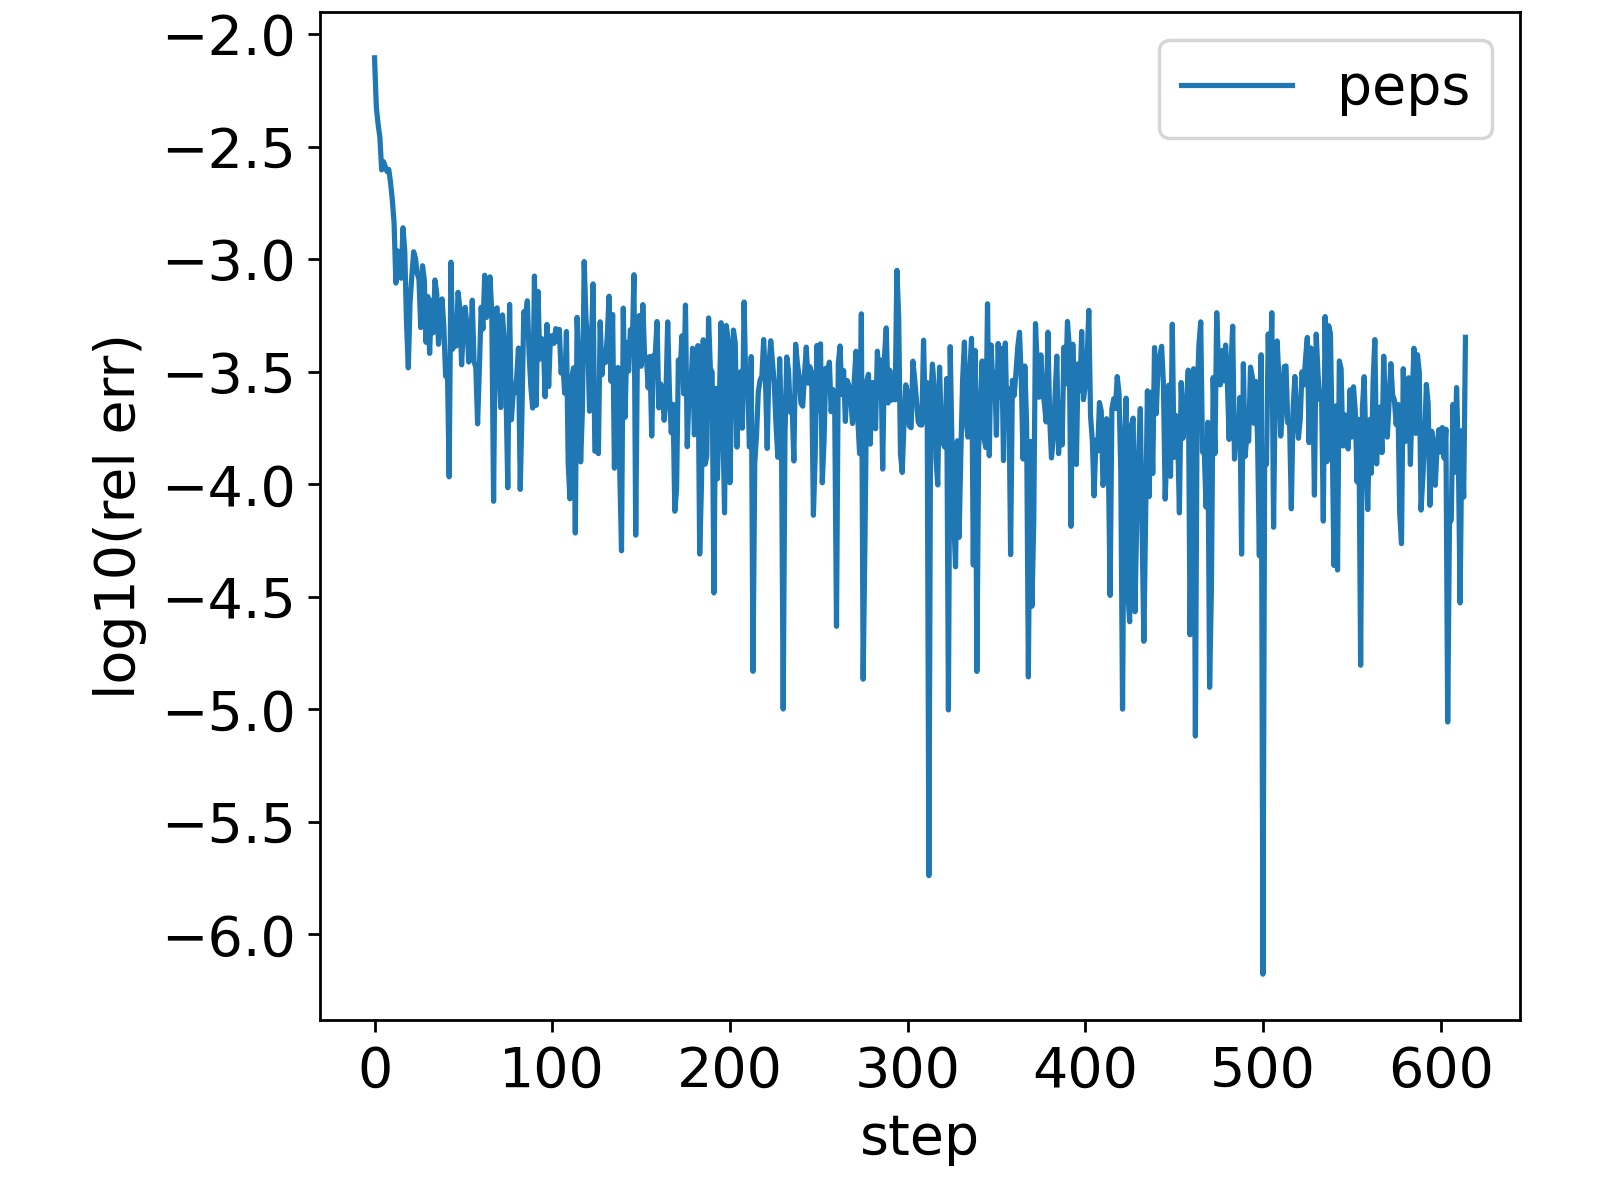
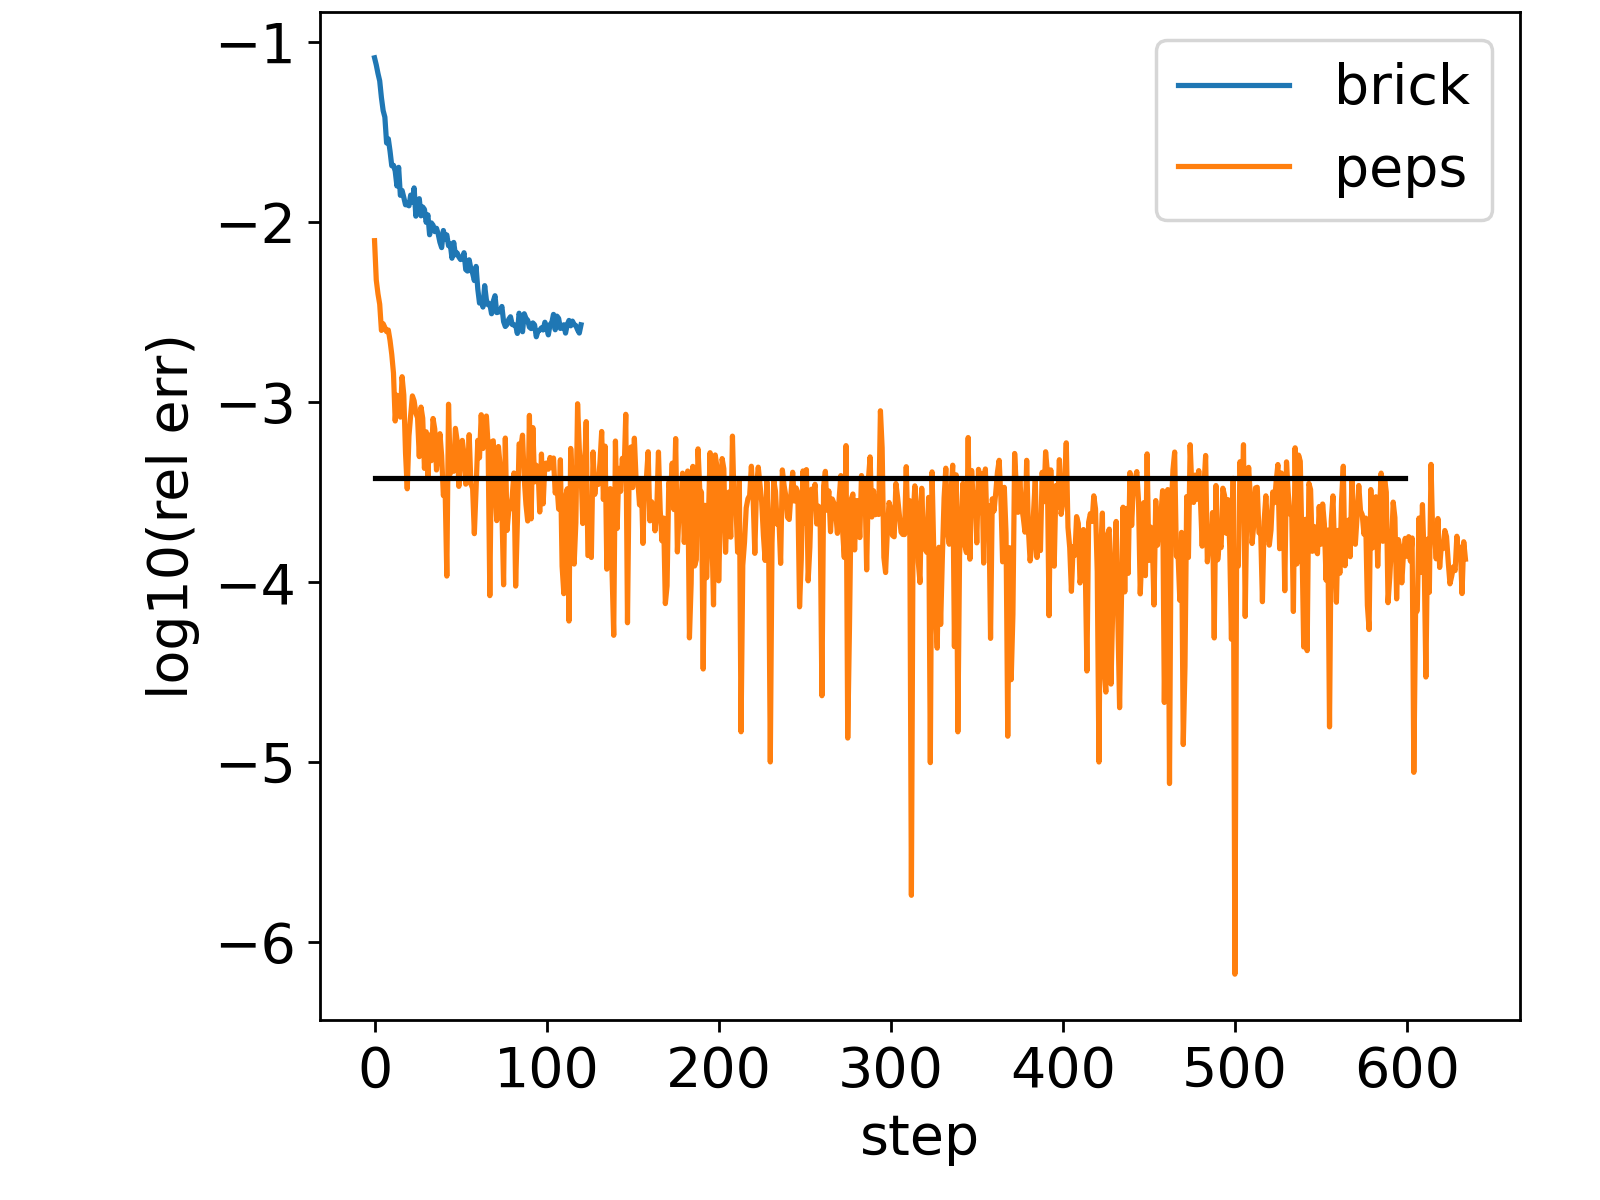
push

diff --git a/j1j2_6x4/D4/plot.py b/j1j2_6x4/D4/plot.py
@@ -8,10 +8,10 @@ plt.rcParams.update({'figure.figsize':(6.4,4.8)})
 #plt.rcParams.update({'text.usetex':True})
 
 exact = -0.47437906
+ref = -0.474200
 fig,ax = plt.subplots(nrows=1,ncols=1)
 
-#for tmpdir in ('brick','peps'):
-for tmpdir in ('peps',):
+for tmpdir in ('brick','peps'):
     out = open(tmpdir+'/summary.out', 'r').readlines()
     e = []
     for l in out:
@@ -21,6 +21,9 @@ for tmpdir in ('peps',):
     e = np.array(e)
     e = np.log10(np.fabs((e-exact)/exact)) 
     ax.plot(range(len(e)),e,linestyle='-',label=tmpdir)
+
+e = np.log10(np.fabs((ref - exact)/exact))
+ax.plot(range(600),np.ones(600)*e,linestyle='-',color='k')
     
 ax.set_xlabel('step')
 ax.set_ylabel('log10(rel err)')
